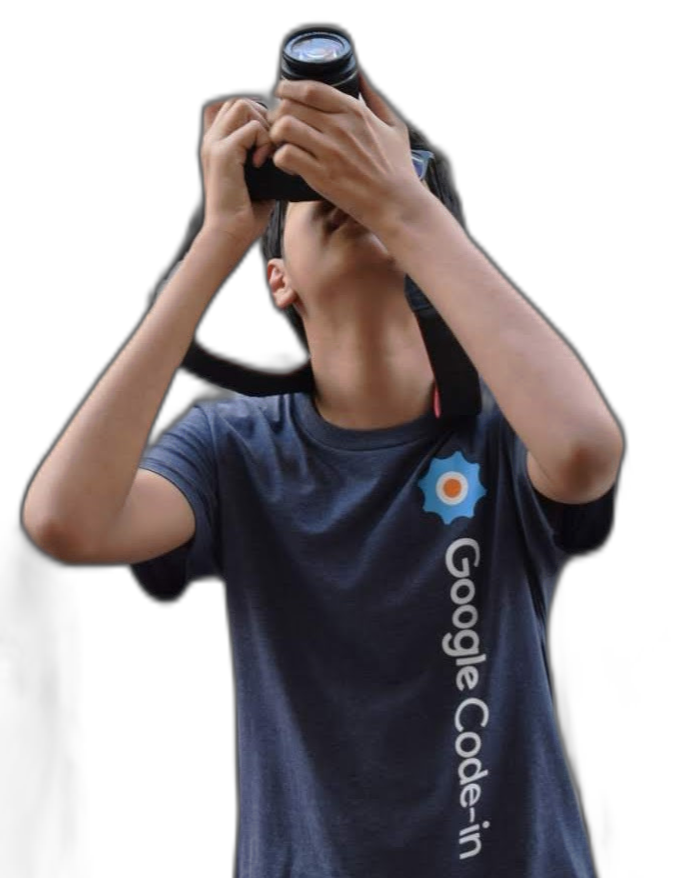
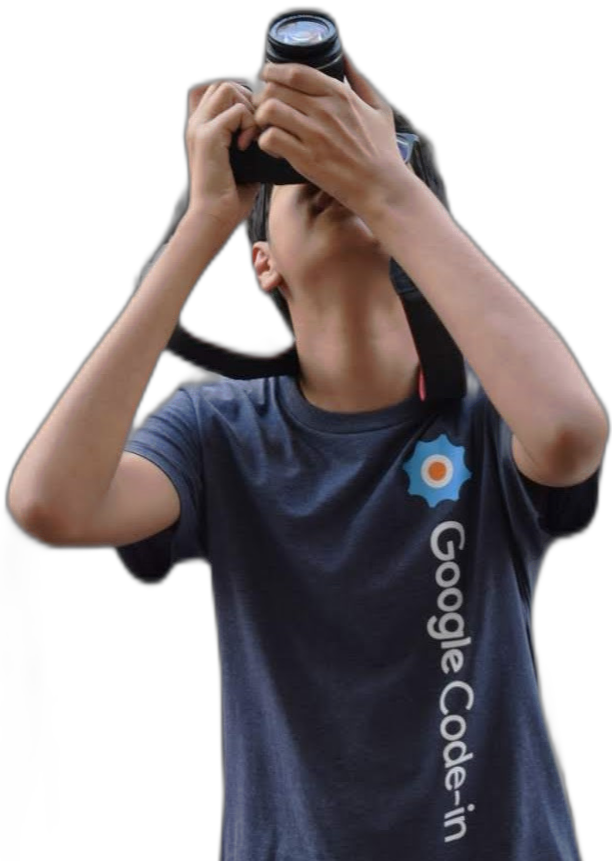
Added credly badges

diff --git a/index.html b/index.html
@@ -15,9 +15,13 @@
     <!--Begin Top Nav-->
     <nav id="top-nav-bar" class="nav-bar top-nav">
         <h1 class="logo"><a href="index.html">Vinayak Sivaprasad</a></h1>
+        <p>
+            <i class="fab fa-google"></i> <!-- Gmail icon -->
+            <a href="mailto:vinisiva2002@gmail.com" class="mailto-link">vinisiva2002@gmail.com</a>
+        </p>
         <ul class="nav-menu">
             <li class="nav-item"><a href="#Projects">Projects</a></li>
-            <li class="nav-item"><a href="#about">About</a></li>
+            <li class="nav-item"><a href="#Tech Stack">Tech Stack</a></li>
             <li class="nav-item social-nav-item">
                 <a href="https://linkedin.com/in/vini02" aria-label="Link to Linkedin">
                 <i class="fab fa-linkedin" aria-hidden="true"></i>
@@ -51,7 +55,7 @@
             <h1 class="hero-heading">Dreams as vast as the clouds in the sky </h1>
             <h1 class="hero-text">Welcome to the bane of my existence!</h1>
             <p>
-                <a href="#about">
+                <a href="#Tech Stack">
                     <button type="button" class="hero-button">View Tech Stack and Projects</button>
                 </a>
             </p>
@@ -59,12 +63,10 @@
     </header>
     <!--End Hero Header-->
 
-   
-
-    <!--Begin About-->
-    <section id="about" class="about-container section-stop">
+    <!--Begin Tech Stack-->
+    <section id="Tech Stack" class="about-container section-stop">
         <section class="about-text">
-            <h1>Do what you love and love what you do</h1>
+            <h1>Do what you love and love what you do.</h1>
               <!-- Tech Stack Section -->
                 <div class="tech-stack">
                 <h2>Tech Stack</h2>
@@ -142,33 +144,38 @@
                 <p></p>
                 </div>
             </div>
-            <h2>Socials</h2>
-            <div class="about-social">
-                <a href="www.linkedin.com/in/vini02" aria-label="Link to Linkedin">
-                    <i class="fab fa-linkedin" aria-hidden="true"></i>
-                </a>
-                <a href="https://github.com/Vinayakoo7" aria-label="Link to Github">
-                    <i class="fab fa-github" aria-hidden="true"></i>
-                </a>
-                <a href="https://instagram.com/vinayak.mp4" aria-label="Link to Instagram">
-                    <i class="fab fa-instagram" aria-hidden="true"></i>
-                </a>
-                <a href="https://twitter.com/Vinayaak02" aria-label="Link to Twitter">
-                    <i class="fab fa-twitter" aria-hidden="true"></i>
-                </a>
-            </div>
-            <p>
-                <i class="fab fa-google"></i> <!-- Gmail icon -->
-                <a href="mailto:vinisiva2002@gmail.com" class="mailto-link">vinisiva2002@gmail.com</a>
-            </p>
+            
+            <!-- Tech Stack section -->
+            <div id="badges">
+                <h2>Credly Badges</h2>
+                <div class="about-badges" id="credly-badges1">
+                    <img src="media/Badges/b1.png" alt="Badge 1">
+                    <img src="media/Badges/b10.png" alt="Badge 2">
+                    <img src="media/Badges/b2.png" alt="Badge 3">
+                    <img src="media/Badges/b4.png" alt="Badge 4">
+                </div>
+                <div class="about-badges" id="credly-badges2">
+                    <img src="media/Badges/b5.png" alt="Badge 5">
+                    <img src="media/Badges/b6.png" alt="Badge 6">
+                    <img src="media/Badges/b7.png" alt="Badge 7">
+                    <img src="media/Badges/b8.png" alt="Badge 8">
+                </div>
+                <div class="about-badges" id="credly-badges3">
+                    <img src="media/Badges/b9.png" alt="Badge 9">
+                    <img src="media/Badges/b3.png" alt="Badge 10">
+                </div>
+            
+        <!--End Tech Stack-->
+    
+        <!--Start projects-->
+        <h2>Projects</h2>
+        <!--End projects-->
         </section>
+        
         <section class="about-image">
-            <img src="media/vini.png" alt="Vinayak's Profile picture">
+            <img src="media/vini2.png" alt="Vinayak's Profile picture">
         </section>
     </section>
-
-    <!--End About-->
-
 
 
 <!-- Start of Footer -->

diff --git a/css/styles.css b/css/styles.css
@@ -340,21 +340,56 @@ video {
   display: grid;
   grid-template-columns: 1fr;
   margin: 6rem auto 0 auto;
+  margin-bottom: 20px;
+}
+.about-container2 {
+  display: grid;
+  grid-template-columns: 1fr;
+  margin: 6rem auto 0 auto;
+  margin-top: 20px;
 }
 
 .about-text {
   margin: 0 auto;
   padding: 0 1rem;
+  
+}
+
+.about-text2 {
+  margin: 0 auto;
+  padding: 0 1rem;
+  
 }
 
 .about-text h1 {
   font-size: 2rem;
   line-height: 2rem;
 }
+.about-text h2 {
+  font-size: 2rem;
+  line-height: 2rem;
+  text-decoration: underline;
+
+}
+
+.about-text2 h1 {
+  font-size: 2rem;
+  line-height: 2rem;
+}
 
 .about-image img {
+  height:fit-content;
+  object-fit: contain;
+  float: right;
+  margin-right: -3.73rem; /* remove right margin */
+  padding-right: 0; /* remove right padding */
+
+}
+
+.about-image2 img {
   height: 70%;
   object-fit: contain;
+  float: left;
 }
 
 .about-social {
@@ -367,13 +402,36 @@ video {
   padding: 0 4rem 1rem 0rem;
   font-size: xx-large;
 }
+.about-badges {
+  display: flex;
+  justify-content: flex-start;
+  width: 172px;
+  height: 172px;
+  margin-left: -1rem;
+  margin-top: 3rem;
+}
+
+.about-badges a {
+  color: white;
+  padding: 0 4rem 1rem 0rem;
+  
+}
+
 
 .section-stop {
   scroll-margin-top: 7rem;
+  margin-bottom: 20px;
+}
+
+.section-stop2 {
+  scroll-margin-top: 7rem;
+  margin-top: 20px;
 }
 
 .mailto-link {
   color: white;
+  text-decoration: none;
+
 }
 
 /* Style for the projects section */
@@ -421,13 +479,29 @@ video {
   .about-text h1 {
     font-size: 3rem;
     line-height: 3rem;
+    
+  }
+
+  .about-text2 h1 {
+    font-size: 3rem;
+    line-height: 3rem;
   }
 
   .about-container {
     grid-template-columns: 1fr 1fr;
     grid-gap: 1rem;
+    margin-bottom: 20px;
   }
+  .about-container2 {
+    grid-template-columns: 1fr 1fr;
+    grid-gap: 1rem;
+    margin-top: 20px;
+  }  
   .about-text p {
+    font-size: 1.1rem;
+    line-height: 1.5rem;
+  }
+  .about-text2 p {
     font-size: 1.1rem;
     line-height: 1.5rem;
   }
@@ -444,6 +518,11 @@ video {
   }
   .section-stop {
     scroll-margin-top: 9rem;
+    margin-bottom: 20px;
+  }
+  .section-stop2 {
+    scroll-margin-top: 9rem;
+    
   }
 }
 
@@ -460,6 +539,12 @@ video {
   .portfolio-container,
   .about-container {
     max-width: 1400px;
+    margin-bottom: 20px;
+  }
+
+  .about-container2 {
+    max-width: 1400px;
+    margin-top: 20px;
   }
 
   .portfolio-container h1,
@@ -469,6 +554,15 @@ video {
   }
 
   .about-text p {
+    font-size: 1.5rem;
+    line-height: 2rem;
+  }
+  .about-text2 h1 {
+    font-size: 4rem;
+    line-height: 4rem;
+  }
+
+  .about-text2 p {
     font-size: 1.5rem;
     line-height: 2rem;
   }
